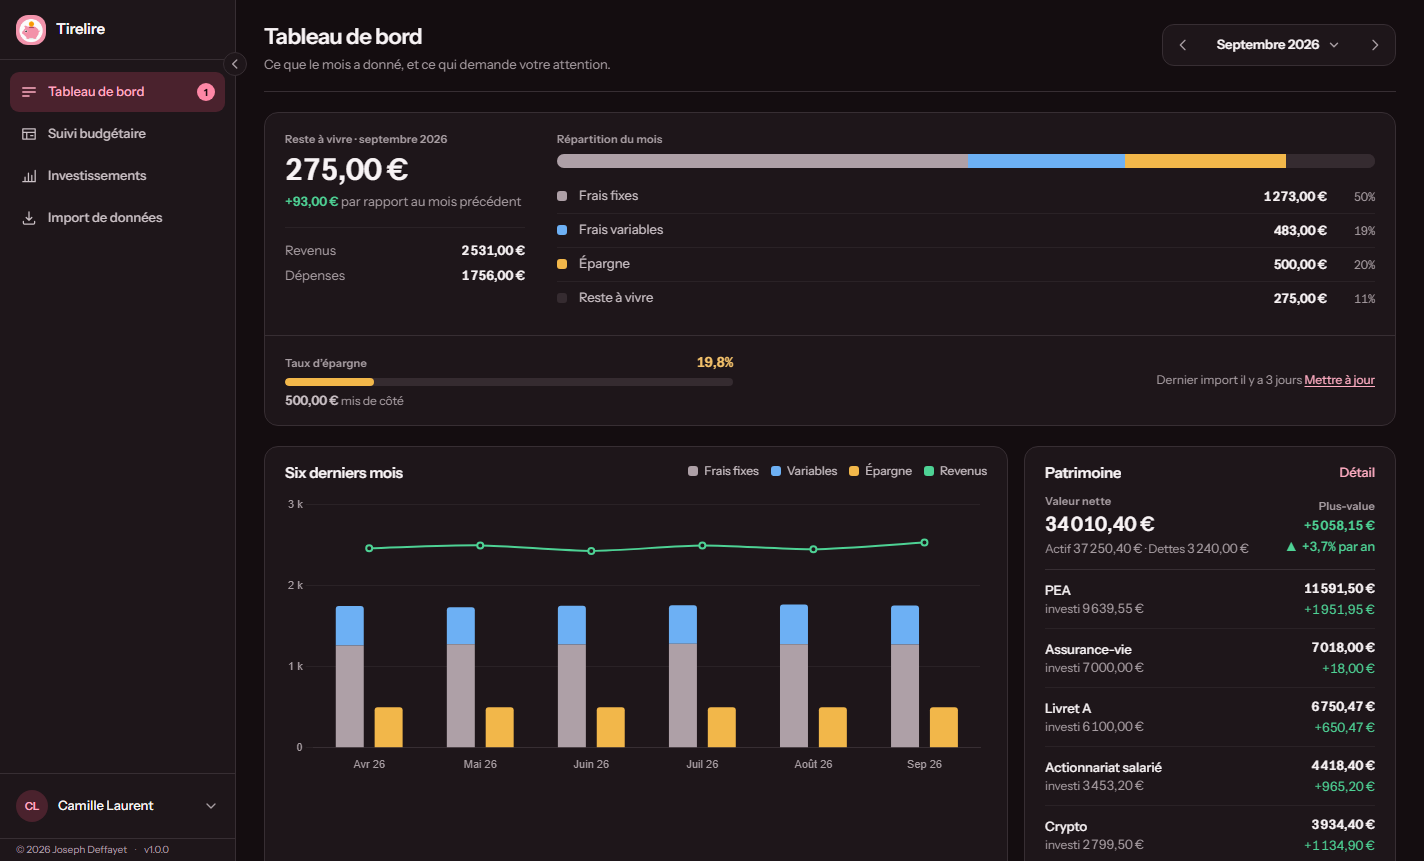
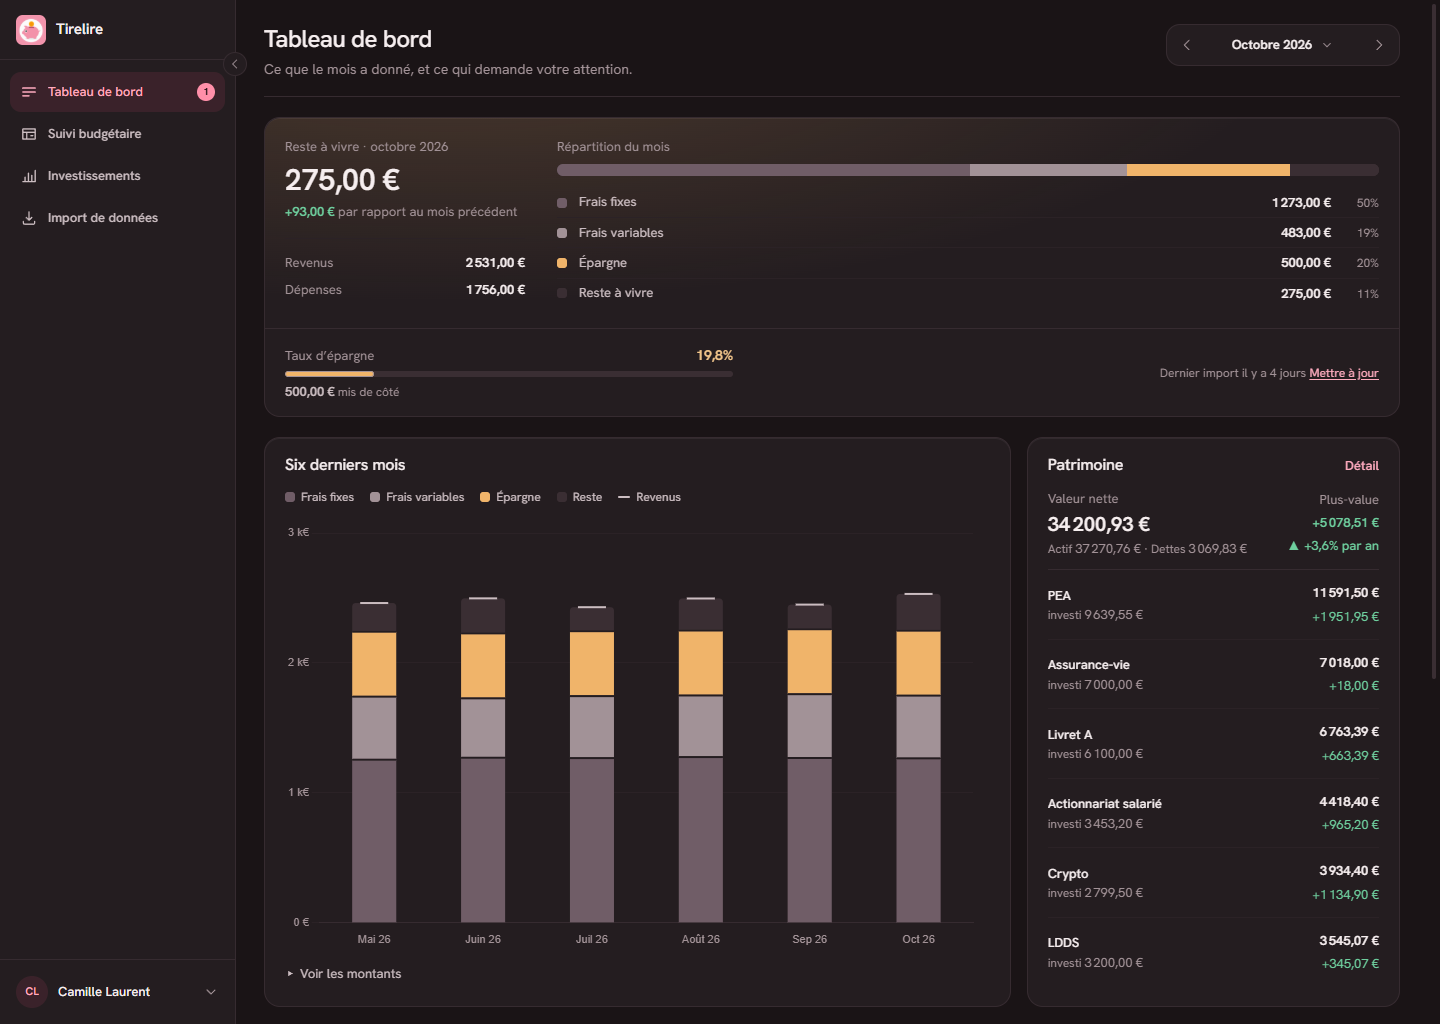
docs: README structure, visuel en tete, captures 1.6.5

diff --git a/README.md b/README.md
@@ -1,12 +1,10 @@
 <p align="center">
-  <img src="docs/img/logo.png" alt="Tirelire" width="120">
+  <img src="docs/img/affiche.jpg" alt="Tirelire, votre argent enfin clair" width="820">
 </p>
 
-<h1 align="center">Tirelire</h1>
-
 <p align="center">
-  Votre argent, d'un coup d'œil.<br>
-  Budget, épargne et patrimoine au même endroit, sur votre ordinateur. Application de bureau pour Windows et macOS.
+  Budget, épargne et patrimoine au même endroit, sur votre ordinateur.<br>
+  Application de bureau gratuite pour Windows et Mac.
 </p>
 
 <p align="center">
@@ -15,154 +13,126 @@
 
 ---
 
-Vous êtes sur la page officielle de Tirelire. Vous y trouverez les installateurs, les fichiers de mise à jour et le mode d'emploi. Le code source n'est pas publié ici.
+## Dernière version
 
-## Sommaire
+<!-- release:start -->
+**Version 1.6.5**, publiée le 16 octobre 2026. [Télécharger](https://github.com/Vitopya/tirelire-releases/releases/latest)
 
-- [Ce que fait Tirelire](#ce-que-fait-tirelire)
-- [Aperçu](#aperçu)
-- [Télécharger et installer](#télécharger-et-installer)
-- [Premier lancement](#premier-lancement)
-- [Mises à jour](#mises-à-jour)
-- [Vos données](#vos-données)
-- [Questions fréquentes](#questions-fréquentes)
-- [Signaler un problème](#signaler-un-problème)
-- [Licence](#licence)
-- [English](#english)
+**Nouveautés**
+
+- Sous Windows, les prochaines mises à jour se téléchargent seules et s'installent sans assistant, à la fermeture de Tirelire ou d'un clic.
+- Le graphique des six derniers mois montre d'un coup d'œil ce que chaque mois a coûté, mis de côté et laissé.
+
+**Ajustements**
+
+- Le menu du compte ferme la barre latérale ; la version et les nouveautés s'y trouvent.
+- Les sons de l'interface sont coupés par défaut. Ils se réactivent dans Mon compte > Apparence.
+<!-- release:end -->
 
 ## Ce que fait Tirelire
 
 | | |
 |---|---|
-| **Tableau de bord** | Le reste à vivre du mois, la répartition entre frais fixes, frais variables et épargne, votre taux d'épargne. Les six derniers mois en un graphique, votre patrimoine (valeur nette et plus-value par support), vos rappels avec une pastille sur l'icône de l'application. |
-| **Suivi budgétaire** | Un tableau par mois en trois sections : revenus, frais fixes, frais variables. Les lignes du mois précédent se reprennent en un clic, et la vue de l'année compare les douze mois. |
-| **Investissements** | PEA et actions, assurance-vie, crypto, immobilier et prêts, livrets réglementés, actionnariat salarié, placements à terme, supports personnalisés. Chaque support garde un journal d'opérations datées (versements, retraits, achats, ventes, dividendes). La synthèse donne la valeur nette (actif moins dettes), le rendement annualisé, une estimation après impôt et la répartition par type de placement. |
-| **Import de relevés** | Collez le texte d'un relevé bancaire : Tirelire reconnaît les opérations, les range dans leur catégorie et les ajoute au budget du mois. Vos corrections servent aux imports suivants. |
-| **Rappels et alertes** | Vos échéances, avec une notification le jour venu. Des alertes automatiques aussi : budget dépassé, relevé manquant, PEA qui atteint cinq ans, épargne salariale débloquée. |
-| **Sauvegardes** | Export et import complets de vos données, protégés par mot de passe si vous le souhaitez. Export CSV. |
+| **Tableau de bord** | Le reste à vivre du mois, la répartition entre frais fixes, frais variables et épargne, le taux d'épargne, les six derniers mois en un graphique, la valeur de votre patrimoine et vos rappels. |
+| **Suivi budgétaire** | Un tableau par mois : revenus, frais fixes, frais variables. Les lignes du mois précédent se reprennent en un clic ; la vue annuelle compare les douze mois. |
+| **Investissements** | PEA, assurance-vie, livrets, actionnariat salarié, crypto, immobilier et prêts, supports personnalisés. Chaque support garde son historique d'opérations ; la synthèse donne la valeur nette, le rendement annualisé et une estimation après impôt. |
+| **Import de relevés** | Collez le texte d'un relevé bancaire : Tirelire reconnaît les opérations, les classe et remplit le budget du mois. Vos corrections servent aux imports suivants. |
+| **Rappels et alertes** | Vos échéances, avec une notification le jour venu, et des alertes automatiques : budget dépassé, relevé manquant, PEA de cinq ans, épargne salariale disponible. |
+| **Sauvegardes** | Export et import complets, protégés par mot de passe si vous le souhaitez. Export CSV. |
 
-Tout fonctionne **hors ligne**. Aucun compte, aucun abonnement, aucune connexion bancaire.
+Tout fonctionne hors ligne. Pas de compte, pas d'abonnement, pas de connexion bancaire.
 
 ## Aperçu
 
-**Tableau de bord** : le mois d'un coup d'œil.
+![Tableau de bord, thème sombre](docs/img/dashboard-dark.png)
 
-![Tableau de bord](docs/img/dashboard.png)
-
-**Suivi budgétaire** : vos lignes, mois par mois.
+![Tableau de bord, thème clair](docs/img/dashboard.png)
 
 ![Suivi budgétaire](docs/img/suivi-budgetaire.png)
 
-**Investissements** : tous vos supports au même endroit, avec la valeur nette du portefeuille.
-
 ![Investissements](docs/img/investissements.png)
-
-**Import de données** : collez, vérifiez, validez.
 
 ![Import de données](docs/img/import-de-donnees.png)
 
-**Thème sombre** disponible depuis le menu du compte.
-
-![Tableau de bord en thème sombre](docs/img/dashboard-dark.png)
-
-Les captures utilisent des données fictives.
+Captures réalisées avec des données fictives.
 
 ## Télécharger et installer
 
-Rendez-vous sur la page de la [**dernière version**](https://github.com/Vitopya/tirelire-releases/releases/latest), section **Assets**, et prenez le fichier qui correspond à votre système.
+Sur la page de la [dernière version](https://github.com/Vitopya/tirelire-releases/releases/latest), section **Assets**, prenez le fichier de votre ordinateur :
 
-| Système | Fichier | Remarque |
-|---|---|---|
-| Windows 10 / 11 (64 bits) | `Tirelire-Setup-X.Y.Z.exe` | Installateur classique, choix du dossier possible |
-| macOS Apple Silicon | `Tirelire-X.Y.Z-arm64.dmg` | Mac M1, M2, M3, M4 |
-| macOS Intel | `Tirelire-X.Y.Z-x64.dmg` | Mac Intel |
+| Ordinateur | Fichier |
+|---|---|
+| Windows 10 ou 11, 64 bits | `Tirelire-Setup-X.Y.Z.exe` |
+| Mac Apple Silicon (M1 et suivants) | `Tirelire-X.Y.Z-arm64.dmg` |
 
-Les autres fichiers de la page (`latest.yml`, `latest-mac.yml`, `.blockmap`, `.zip`) servent au mécanisme de mise à jour. Vous n'avez pas à les télécharger.
+Les autres fichiers (`.yml`, `.blockmap`, `.zip`) servent aux mises à jour automatiques. Les Mac à processeur Intel ne sont pas pris en charge.
 
-### Windows
+**Windows.** Ouvrez le fichier et suivez l'assistant. Si Windows affiche « Windows a protégé votre ordinateur », c'est parce que l'application n'a pas de certificat commercial : cliquez sur **Informations complémentaires**, puis **Exécuter quand même**.
 
-1. Ouvrez `Tirelire-Setup-X.Y.Z.exe`.
-2. Si **Windows SmartScreen** affiche « Windows a protégé votre ordinateur » : cliquez sur **Informations complémentaires**, puis **Exécuter quand même**. L'application n'est pas signée par un certificat commercial, ce qui déclenche cet avertissement.
-3. Suivez l'assistant. Tirelire s'installe pour votre compte utilisateur, sans droits administrateur.
-4. Lancez Tirelire depuis le menu Démarrer.
-
-### macOS
-
-1. Ouvrez le fichier `.dmg` et glissez **Tirelire** dans **Applications**.
-2. À la première ouverture, macOS peut refuser de lancer l'application (« ne peut pas être ouverte car elle provient d'un développeur non identifié »). Deux solutions :
-   - clic droit sur Tirelire dans Applications, **Ouvrir**, puis confirmer ;
-   - ou **Réglages Système** > **Confidentialité et sécurité**, bouton **Ouvrir quand même** en bas de la page.
-3. Cette manipulation n'est nécessaire qu'une fois.
-
-### Mettre à jour une installation existante
-
-Installez la nouvelle version par-dessus l'ancienne, sans désinstaller. Vos données sont conservées : elles ne sont pas dans le dossier de l'application.
-
-**Vous avez une version 3.x ?** La numérotation est repartie de 1.0.0 le 4 septembre 2026, première version officielle. Une installation 3.x ne verra pas cette version dans ses mises à jour automatiques : téléchargez l'installateur ici et installez-le par-dessus, vos données sont conservées.
+**Mac.** Ouvrez le `.dmg` et glissez Tirelire dans **Applications**. Si macOS bloque la première ouverture : clic droit sur Tirelire, **Ouvrir**, puis confirmez. Ou **Réglages Système** > **Confidentialité et sécurité** > **Ouvrir quand même**. Ce n'est demandé qu'une fois.
 
 ## Premier lancement
 
-- Tirelire s'ouvre directement sur le **tableau de bord**, sans mot de passe. Les nouveautés de la version s'affichent une fois, puis une visite guidée présente les écrans. Pour relire les nouveautés, cliquez sur la mention de version en bas de la barre latérale.
-- Le tableau est vide : commencez par **Suivi budgétaire** pour saisir vos revenus et charges du mois, ou par **Import de données** pour coller un relevé.
-- Un **mot de passe** (optionnel) se définit dans **Mon compte** > **Sécurité**. Il protège l'ouverture de l'application. Un indice de rappel peut être enregistré avec lui.
+1. Tirelire vous propose de protéger l'application par un mot de passe. C'est facultatif : **Continuer sans mot de passe** ouvre directement le tableau de bord, et vous pourrez en définir un plus tard dans **Mon compte** > **Sécurité**.
+2. Les nouveautés de la version s'affichent, puis une courte visite présente les écrans.
+3. Commencez par **Suivi budgétaire** pour saisir le mois en cours, ou par **Import de données** pour coller un relevé.
 
 ## Mises à jour
 
-Au lancement, Tirelire vérifie si une nouvelle version est publiée ici. Si c'est le cas :
+Tirelire vérifie au lancement si une nouvelle version est publiée ici.
 
-- un **bandeau** apparaît en haut de l'application, avec un bouton **Mettre à jour**. Il se ferme d'une croix et revient au lancement suivant ;
-- l'onglet **Mon compte** > **Mises à jour** affiche la version installée, les nouveautés de la version proposée et les actions disponibles.
+- **Windows** : la mise à jour se télécharge seule, puis s'installe quand vous fermez l'application, ou tout de suite avec **Redémarrer maintenant**. Aucun assistant à suivre.
+- **Mac** : un bandeau vous la propose. Si l'installation automatique n'aboutit pas, Tirelire ouvre cette page : téléchargez le `.dmg` et remplacez l'application.
 
-![Onglet Mises à jour](docs/img/compte-mises-a-jour.png)
-
-Rien n'est téléchargé sans votre accord. Sur macOS, si l'installation automatique n'est pas possible, Tirelire vous renvoie vers cette page pour télécharger le fichier manuellement.
+Le détail de la version proposée se lit dans **Mon compte** > **Mises à jour**. Une mise à jour ne touche jamais à vos données.
 
 ## Vos données
 
-**Où sont-elles ?** Sur votre ordinateur, dans un fichier unique :
+**Où sont-elles ?** Sur votre ordinateur, dans un seul fichier :
 
-| Système | Emplacement |
+| Système | Dossier |
 |---|---|
-| Windows | `%APPDATA%\finboard\data\finboard.db` |
-| macOS | `~/Library/Application Support/finboard/data/finboard.db` |
+| Windows | `%APPDATA%\finboard\data\` (ou `%APPDATA%\tirelire\data\` sur certaines installations) |
+| Mac | `~/Library/Application Support/finboard/data/` |
 
-**Sont-elles protégées ?** Le fichier est **chiffré** (SQLCipher, clé de 256 bits). La clé est générée au premier lancement et rangée dans le trousseau du système, DPAPI sous Windows, Keychain sous macOS. Elle est liée à votre session utilisateur : une personne qui copie le fichier sur une autre machine ou depuis un autre compte ne peut pas le lire.
+**Sont-elles protégées ?** Le fichier est chiffré (SQLCipher, clé de 256 bits). La clé est créée au premier lancement et rangée dans le coffre du système (DPAPI sous Windows, Trousseau sur Mac), lié à votre session : copié sur une autre machine ou depuis un autre compte, le fichier reste illisible. Il ne protège pas une session laissée ouverte : verrouillez-la, et définissez un mot de passe dans Tirelire si l'ordinateur est partagé.
 
-**Ce que ça ne protège pas** : une session ouverte sur votre compte. Verrouillez votre session et, si l'ordinateur est partagé, définissez un mot de passe dans Tirelire.
+**Sauvegardes.** **Mon compte** > **Données**. Exportez de temps en temps, avec un mot de passe si le fichier quitte votre machine. C'est la seule façon de retrouver vos données après un changement d'ordinateur ou une réinstallation du système.
 
-**Sauvegardes** : **Mon compte** > **Données**. Exportez régulièrement, avec mot de passe si le fichier doit quitter votre machine. C'est aussi le seul moyen de récupérer vos données si le trousseau du système est réinitialisé, si vous changez d'ordinateur, ou si vous réinstallez le système.
-
-**Réseau** : Tirelire ne contacte qu'un serveur, cette page GitHub, pour vérifier les mises à jour. Aucune donnée n'en sort.
+**Réseau.** Tirelire ne contacte qu'un serveur, cette page, pour savoir si une nouvelle version existe. Aucune donnée n'est envoyée.
 
 ## Questions fréquentes
 
 **Tirelire se connecte-t-elle à ma banque ?**
-Non, et c'est volontaire. Vous collez le texte d'un relevé, Tirelire fait le tri. Aucun identifiant bancaire n'est saisi.
+Non, volontairement. Vous collez le texte d'un relevé, Tirelire fait le tri. Aucun identifiant bancaire n'est demandé.
 
 **Puis-je l'utiliser sur deux ordinateurs ?**
-Oui, avec un export sur le premier et un import sur le second. Il n'y a pas de synchronisation automatique.
+Oui : export sur le premier, import sur le second. Il n'y a pas de synchronisation automatique.
 
 **J'ai oublié mon mot de passe.**
-L'indice de rappel s'affiche sur l'écran de connexion. Sans lui, restaurez une sauvegarde : elle ne contient pas le mot de passe.
+Sur l'écran de connexion, **Mot de passe oublié ?** le réinitialise. Vos données sont conservées.
 
 **Windows dit que l'application est dangereuse.**
-C'est l'avertissement SmartScreen sur les applications sans certificat commercial. Vérifiez que vous avez téléchargé le fichier depuis cette page, puis **Informations complémentaires** > **Exécuter quand même**.
+C'est l'avertissement affiché pour les applications sans certificat commercial. Vérifiez que le fichier vient bien de cette page, puis **Informations complémentaires** > **Exécuter quand même**.
 
 **L'application ne s'ouvre pas.**
-Fermez toute instance déjà lancée, puis relancez. Sur Windows, consultez `%APPDATA%\finboard\finboard-electron.log` et joignez-le à votre signalement.
+Fermez toute fenêtre Tirelire déjà ouverte et relancez. Sous Windows, le journal `finboard-electron.log`, dans le dossier `%APPDATA%\finboard\` (ou `tirelire`), aide à comprendre : joignez-le à votre signalement.
+
+**J'ai une version 3.x.**
+La numérotation est repartie de 1.0.0 le 4 septembre 2026. Une version 3.x ne voit pas les nouvelles versions : téléchargez l'installateur ici et installez-le par-dessus, vos données sont conservées.
 
 **Comment désinstaller ?**
-Windows : Paramètres > Applications > Tirelire > Désinstaller. macOS : glissez Tirelire dans la corbeille. Dans les deux cas, le fichier de données est conservé ; supprimez le dossier indiqué plus haut pour tout effacer.
+Windows : **Paramètres** > **Applications** > Tirelire > **Désinstaller**. Mac : glissez Tirelire dans la corbeille. Le fichier de données reste en place ; supprimez son dossier pour tout effacer.
 
 ## Signaler un problème
 
-- Bug ou suggestion : ouvrez une [issue](https://github.com/Vitopya/tirelire-releases/issues) en indiquant votre système et la version (en bas de la barre latérale, ou dans **Mon compte** > **Mises à jour**).
-- Faille de sécurité : voir [SECURITY.md](SECURITY.md). Pas de détails en public, merci.
+- Bug ou suggestion : ouvrez une [issue](https://github.com/Vitopya/tirelire-releases/issues), avec votre système et la version de Tirelire (menu du compte, en bas de la barre latérale, ligne **Nouveautés**).
+- Faille de sécurité : voir [SECURITY.md](SECURITY.md), sans détail en public.
 
-## Licence
+## Conditions
 
-Tirelire est une création de **Joseph Deffayet**, product designer. Logiciel propriétaire, tous droits réservés : usage personnel, pas de redistribution ni d'usage commercial sans accord écrit. Conditions complètes dans [LICENSE](LICENSE).
+Tirelire est une création de Joseph Deffayet, gratuite pour un usage personnel. Le logiciel, son interface et ses textes restent sa propriété : copie, redistribution, modification et usage commercial sont interdits sans accord écrit. Le code source n'est pas publié. Conditions complètes dans [LICENSE](LICENSE).
 
 ## English
 
-Tirelire is a personal finance desktop app for Windows and macOS: monthly budget, investments, bank statement import. Everything stays on your computer in an encrypted local file. No account, no cloud, no bank connection. This repository hosts the installers and the user guide; the source code is not published here. Download the latest build from [Releases](https://github.com/Vitopya/tirelire-releases/releases/latest). Copyright Joseph Deffayet, all rights reserved, see [LICENSE](LICENSE).
+Tirelire is a free personal finance desktop app for Windows and Apple Silicon Macs: monthly budget, investments, bank statement import. Everything stays on your computer in an encrypted file; no account, no cloud, no bank connection. This repository hosts the installers and the user guide only. Download the [latest version](https://github.com/Vitopya/tirelire-releases/releases/latest). Copyright Joseph Deffayet, all rights reserved, see [LICENSE](LICENSE).
